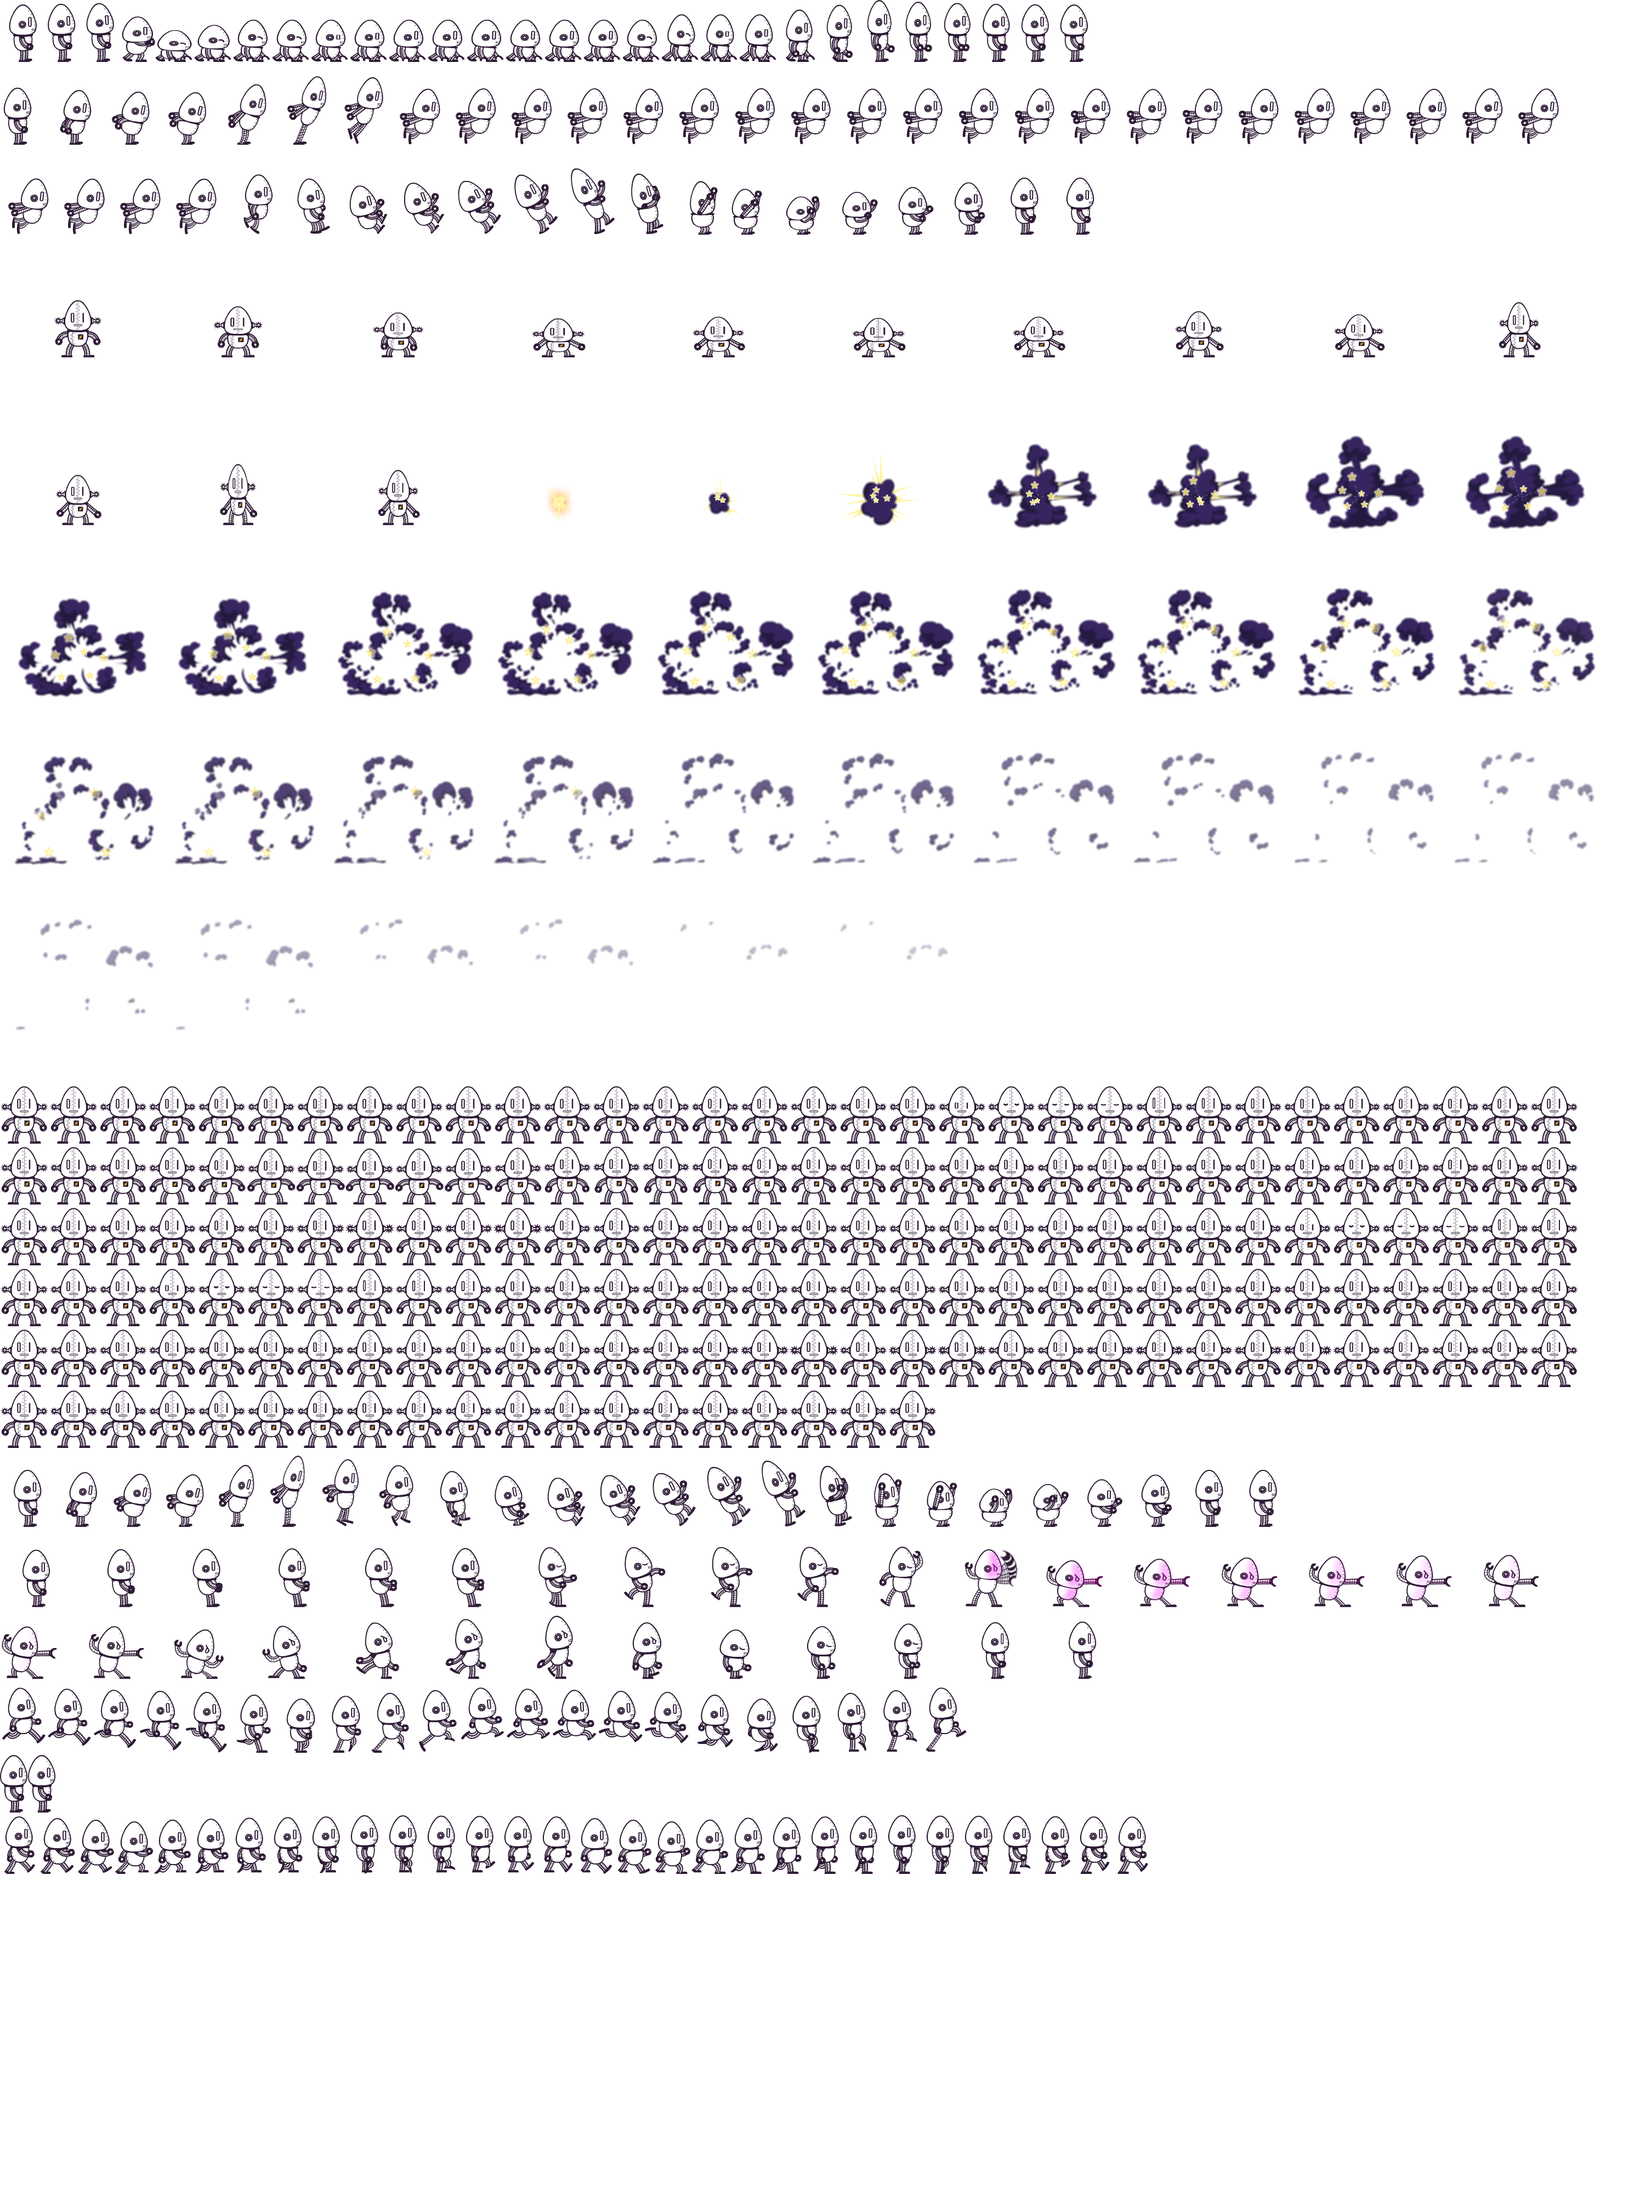
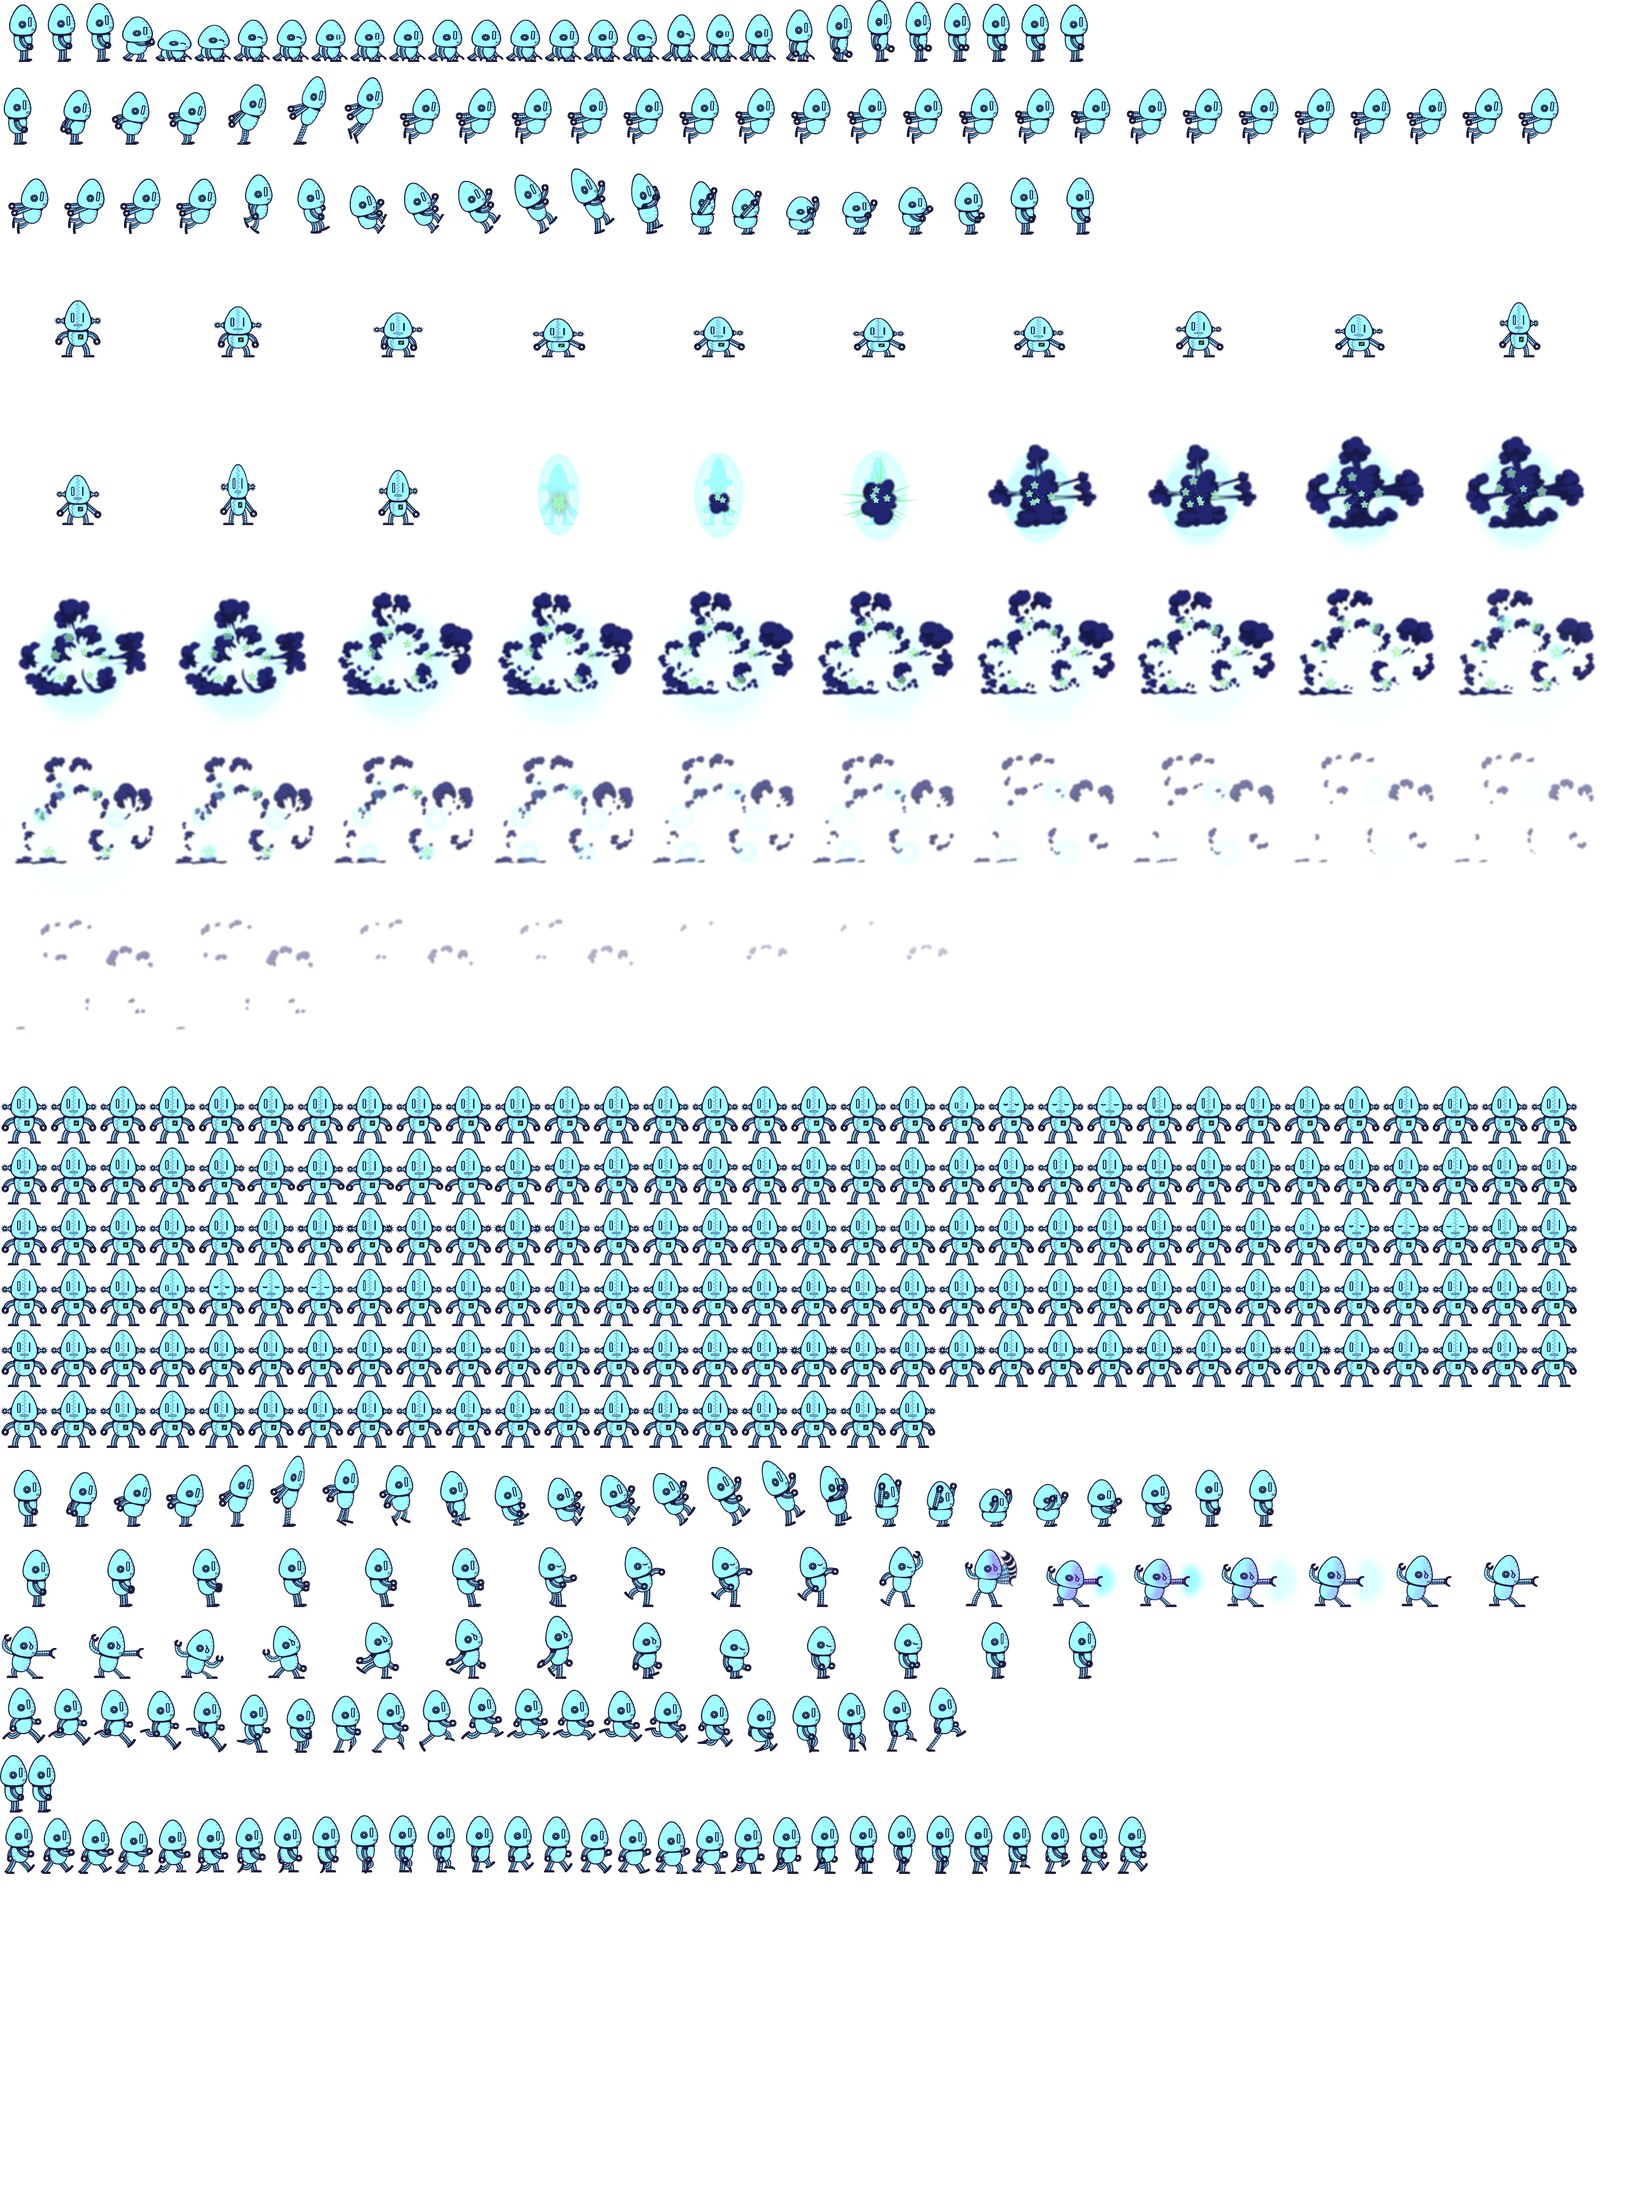
Finalized platformer game

diff --git a/fsd-projects/platformer/platformer.css b/fsd-projects/platformer/platformer.css
@@ -1,12 +1,17 @@
 body {
-  margin: 100px;
+  margin: 0px;
+  overflow: hidden;
 }
+
 
 canvas {
   background-image: url('https://c4.wallpaperflare.com/wallpaper/72/340/1016/minecraft-render-screenshots-wallpaper-preview.jpg');
-  margin: 0px;
+  margin: 0;
   background-size: cover;
+  width: 100%;
+  height: 100%;
 }
+
 
 img {
   display: none;
